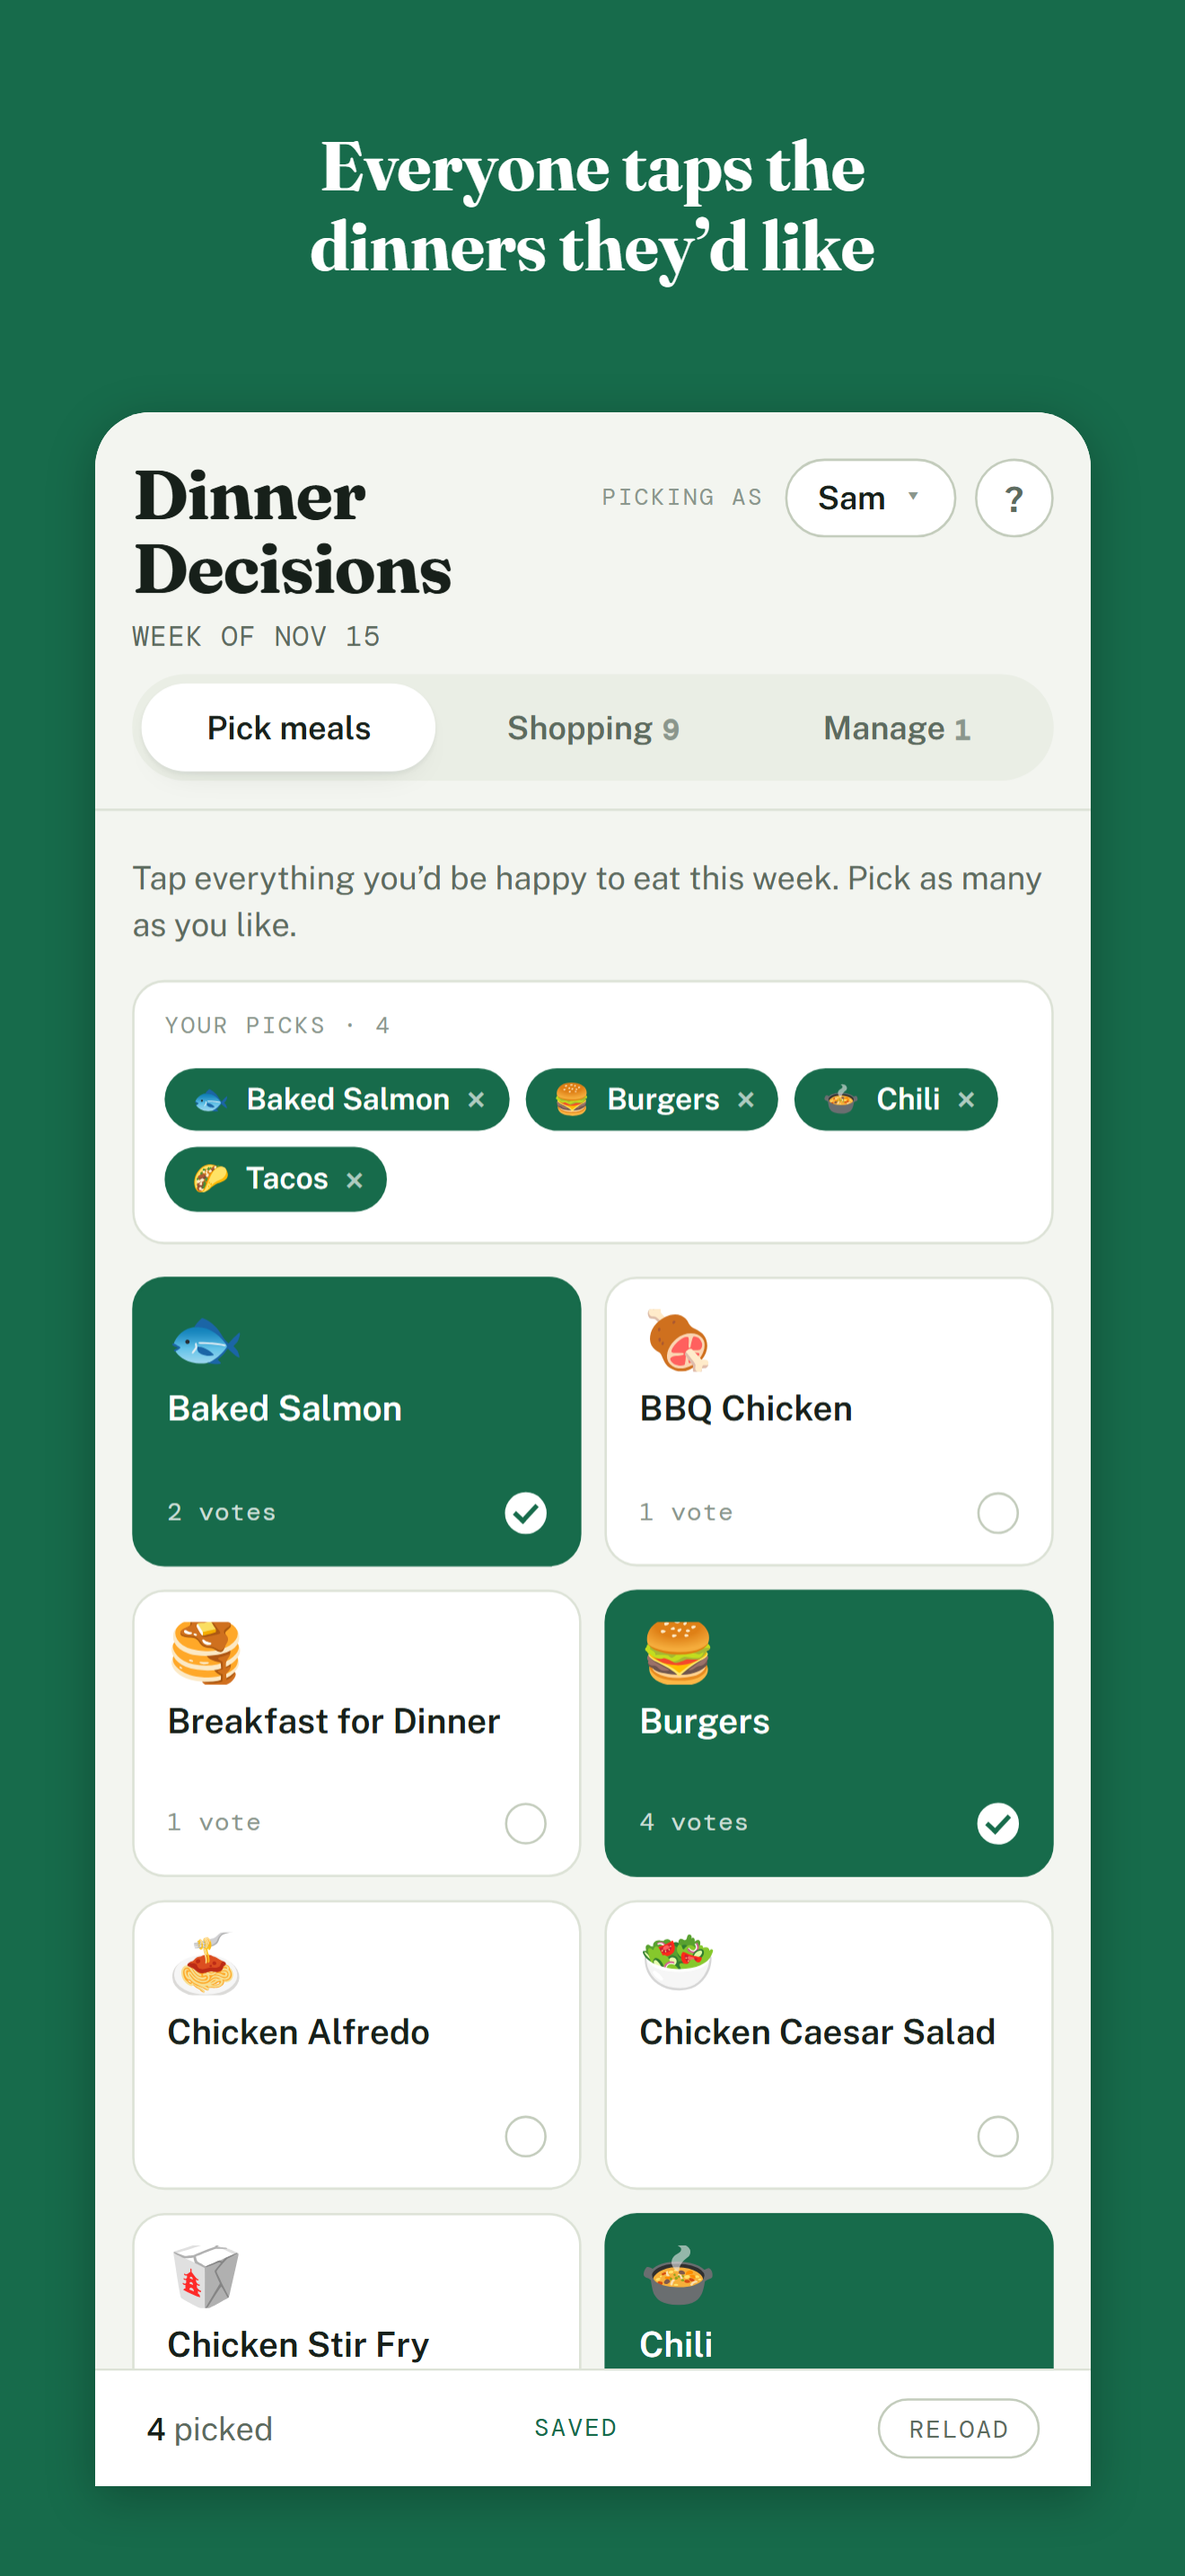
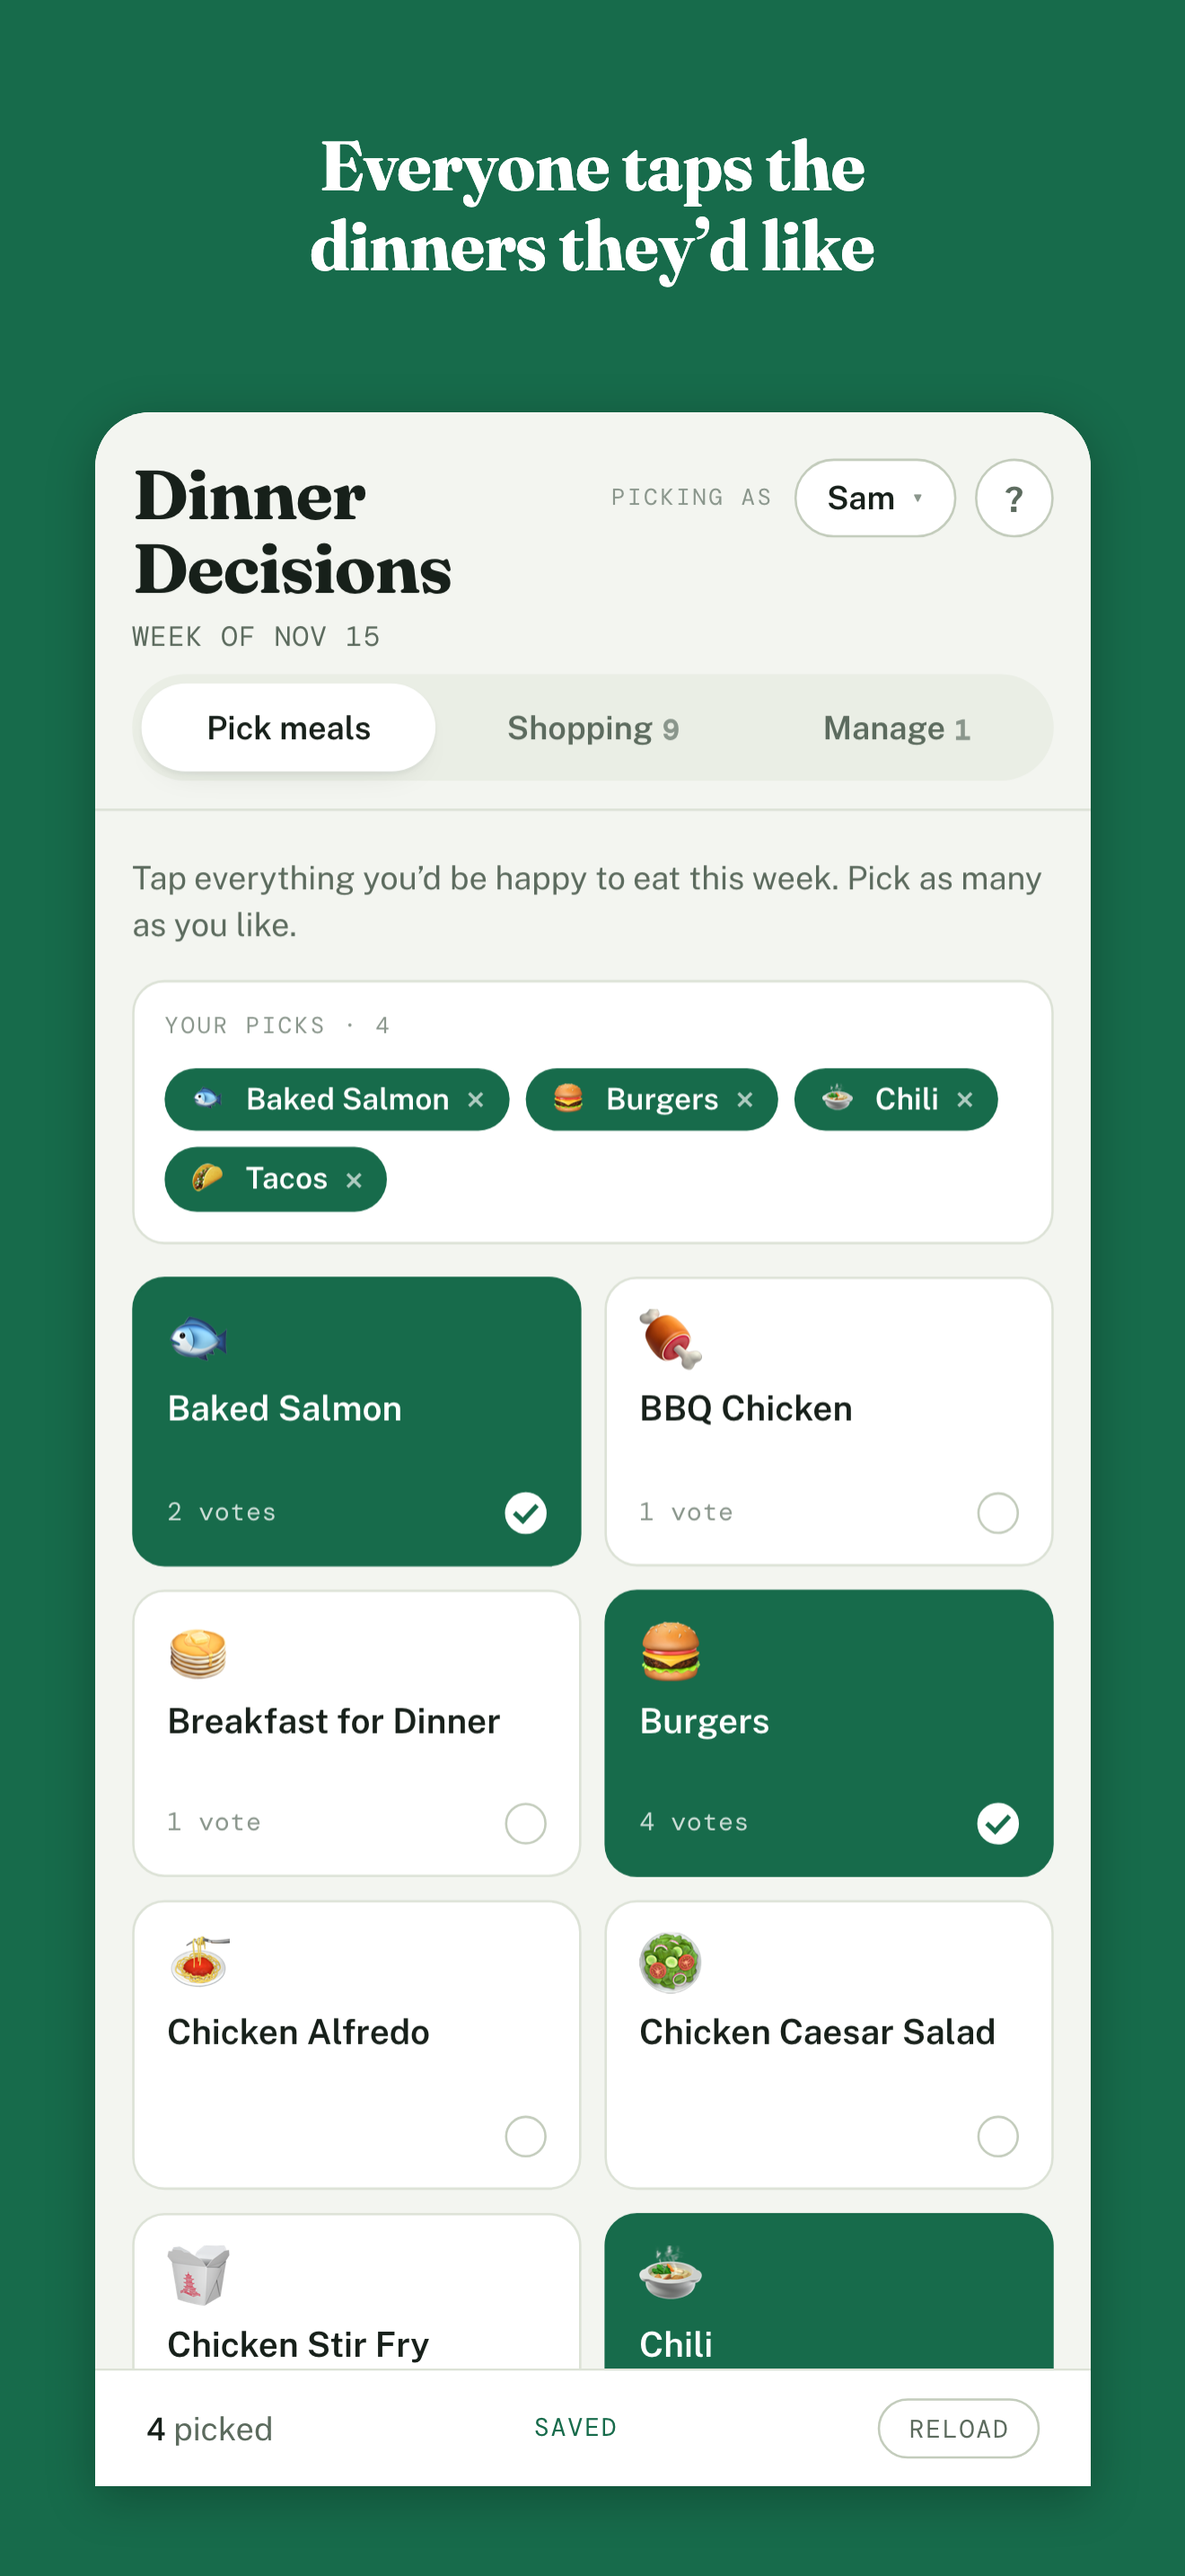
iPhone app: first build on a Mac, simulator checks, and the fixes they turned up
Built with Xcode 27.2 and run in the iOS 27.2 simulator for the first time; the project had only ever been generated on Windows.
Everything in the brief works in the simulator: sign-in, starting a family, Share invite, Share plan, Share list, Print as a PDF with its Print action, Vote reminders on and off, Delete My Data, dark mode, the splash and the icon.

Fixes:
- index.html: on iPhone the page runs under the status bar, so the top padding and the stuck tab strip now respect the safe-area inset, and a cover in the ground color stops content scrolling through above the tabs.
- ios/App/App/ViewController.swift: the web view's own background follows the page's ground in light and dark, so iOS 26's status-bar fade is no longer light grey in dark mode.
- The iOS splash image set had three unassigned template PNGs; removed.

Added:
- scripts/ios-sim.sh and mise run ios-sim: build and run the app in the simulator, with --emulators for the Firebase emulators (Capacitor on iOS checks the start path as a file, so a tiny emu.html hops to index.html?emu=1).
- tests/ios/simulator.test.mjs and mise run ios-test: a fresh install starts and signs in within a few seconds.
- The App Store screenshot set redrawn on the Mac with Apple's emoji.
- Package.resolved for the Swift packages, so the build is pinned.

diff --git a/ios/App/App/ViewController.swift b/ios/App/App/ViewController.swift
@@ -1,0 +1,42 @@
+import UIKit
+import Capacitor
+
+// The web view's own background shows wherever the page is not: behind the
+// status bar's scroll-edge fade on iOS 26, and when the page is pulled past
+// its end. Capacitor paints it the one color from capacitor.config.json, the
+// website's light ground, so in dark mode a light haze sat under the status
+// bar. This repaints it with the page's --ground for the current appearance,
+// as a plain color (the edge fade resolves a dynamic one light), once the
+// view has its traits and again whenever the appearance changes.
+class ViewController: CAPBridgeViewController {
+    private static func ground(_ traits: UITraitCollection) -> UIColor {
+        traits.userInterfaceStyle == .dark
+            ? UIColor(red: 0x12 / 255.0, green: 0x16 / 255.0, blue: 0x0F / 255.0, alpha: 1)
+            : UIColor(red: 0xF3 / 255.0, green: 0xF5 / 255.0, blue: 0xF0 / 255.0, alpha: 1)
+    }
+
+    private func paintGround() {
+        let color = Self.ground(traitCollection)
+        webView?.backgroundColor = color
+        webView?.scrollView.backgroundColor = color
+    }
+
+    override func viewDidLoad() {
+        super.viewDidLoad()
+        if #available(iOS 17.0, *) {
+            registerForTraitChanges([UITraitUserInterfaceStyle.self]) { (vc: Self, _: UITraitCollection) in
+                vc.paintGround()
+            }
+        }
+    }
+
+    override func viewWillAppear(_ animated: Bool) {
+        super.viewWillAppear(animated)
+        paintGround()
+    }
+
+    override func traitCollectionDidChange(_ previous: UITraitCollection?) {
+        super.traitCollectionDidChange(previous)
+        if #unavailable(iOS 17.0) { paintGround() }
+    }
+}

diff --git a/index.html b/index.html
@@ -2,7 +2,7 @@
 <html lang="en">
 <head>
 <meta charset="utf-8">
-<meta name="viewport" content="width=device-width, initial-scale=1">
+<meta name="viewport" content="width=device-width, initial-scale=1, viewport-fit=cover">
 <meta name="description" content="Everyone in the house votes on this week's dinners from their own phone, and the shopping list builds itself. Free, with no accounts and no email.">
 <title>Dinner Decisions - Family dinner voting and shopping list</title>
 <link rel="canonical" href="https://dinnerdecisions.app/">
@@ -134,7 +134,7 @@
   .wrap {
     max-width: 680px;
     margin: 0 auto;
-    padding: 20px 16px 0;
+    padding: max(20px, calc(env(safe-area-inset-top, 0px) + 10px)) 16px 0;
   }
 
   /* ---------- masthead ---------- */
@@ -301,6 +301,18 @@
 
   /* ---------- tabs ---------- */
 
+  /* Inside the phone apps the page runs under the status bar. This paints the
+     ground color there, so nothing scrolls through above the stuck tab strip.
+     On the website the inset is 0 and it has no height. */
+  body::before {
+    content: "";
+    position: fixed;
+    top: 0; left: 0; right: 0;
+    height: env(safe-area-inset-top, 0px);
+    background: var(--ground);
+    z-index: 21;
+  }
+
   /* Sticks to the top so the tabs stay reachable from anywhere in a long
      list. It bleeds past the wrap's padding so the ground and the rule run
      the full width rather than leaving gutters for content to show through.
@@ -310,7 +322,7 @@
      stay for when the bar is stuck to the top of the screen. */
   .tabbar {
     position: sticky;
-    top: 0;
+    top: env(safe-area-inset-top, 0px);
     z-index: 20;
     margin: -3px -16px 18px;
     padding: 8px 16px 12px;

diff --git a/ios/App/App/SceneDelegate.swift b/ios/App/App/SceneDelegate.swift
@@ -8,7 +8,7 @@ class SceneDelegate: UIResponder, UIWindowSceneDelegate {
         guard let windowScene = scene as? UIWindowScene else { return }
 
         window = UIWindow(windowScene: windowScene)
-        window?.rootViewController = CAPBridgeViewController()
+        window?.rootViewController = ViewController()
         window?.makeKeyAndVisible()
 
         SceneDelegateProxy.shared.scene(scene, willConnectTo: session, options: connectionOptions)

diff --git a/store/README.md b/store/README.md
@@ -91,15 +91,16 @@ Firebase Authentication's own "Authorized domains" list (Authentication, Setting
 1. LLC approved, D-U-N-S number, then both developer accounts (above).
 2. Fill `store/app-links.json` (Apple Team ID, Play signing fingerprints) and publish the website, so invite links open the app. See `app-links.md`.
 3. Release signing: an upload key for Play (kept out of git, with a backup), and Apple certificates in GitHub Actions secrets.
-4. iPhone build and TestFlight from GitHub Actions; check sign-in works in the iPhone app (untested so far, see below).
-5. Screenshots and the feature graphic are made (`mise run store-screenshots`, see `listing.md`); redo the iPhone set on the Mac. Then Play internal testing and TestFlight, then review. Have a lawyer read the age-signal handling (`content-rating.md`).
+4. iPhone build and TestFlight from GitHub Actions; sign-in works in the iPhone app (checked in the simulator, see below).
+5. Screenshots and the feature graphic are made (`mise run store-screenshots`, see `listing.md`); the iPhone set was redone on the Mac on Nov 20, 2026. Then Play internal testing and TestFlight, then review. Have a lawyer read the age-signal handling (`content-rating.md`).
 6. Privacy policy: now covers the apps, reminders and age signals; publish it with the website before the apps go live, and update its effective date then.
 7. Icon artwork: done. The pot is now `icons/pot.svg`, Microsoft's Fluent Emoji "Pot of food" under the MIT License, the same drawing the Windows emoji font showed, so the icon looks the same. The licence's copyright notice is kept in `icons/pot-LICENSE.txt` and on the Terms page.
 
 ## Known gaps
 
-- **iPhone is untested.** The iOS project is generated on Windows and has not been built; the first build is on Mike's MacBook (started Nov 20, 2026, steps on his "iPhone Build Handoff" page).
+- **iPhone: built and tried in the simulator on Nov 20, 2026** (Xcode 27.2, iOS 27.2, `mise run ios-sim`), not yet on a real iPhone.
+  Sign-in, starting a family, Share invite, Share plan, Print (a PDF to the share sheet, and its Print action), Vote reminders (the permission prompt and Turn On), Delete My Data, dark mode and the icon all work.
   The known iPhone sign-in problem is dealt with: Firebase Auth's compat SDK loads Google's popup sign-in helper (an iframe from `apis.google.com`) on phones, which is the known cause of slow or stuck sign-in inside iPhone apps.
-  `scripts/build-app.mjs` removes that helper from the app's copy only (the change Firebase recommends for Capacitor), and the Android device test checks no outside script or iframe loads and sign-in works.
-  The first iPhone build should still confirm a new phone reaches "Not joined" quickly, and that Share, Print, invite links and reminders work.
+  `scripts/build-app.mjs` removes that helper from the app's copy only (the change Firebase recommends for Capacitor); the Android device test and `mise run ios-test` check a fresh install signs in within seconds.
+  Still to try on a real iPhone: the haptic tap, and invite links once `store/app-links.json` has the Team ID.
 - Google Play now lists Android 17 (API 37). Capacitor 8 targets API 36, which Play accepts for new apps until its next yearly deadline (normally August).

diff --git a/README.md b/README.md
@@ -116,10 +116,13 @@ mise run app-sync        # rebuild www/ and copy it into android/ and ios/
 mise run app-test        # check www/ is the website plus only the intended changes
 mise run android-debug   # debug APK at build/DinnerDecisions-debug.apk (needs the Android SDK)
 mise run android-test    # the app on a running Android emulator, against the Firebase emulators
+mise run ios-sim         # the iPhone app in the iOS Simulator (Mac only; --emulators for the Firebase emulators)
+mise run ios-test        # the iPhone app installed fresh in the simulator: starts and signs in, against the emulators
 ```
 
 The Android SDK is the command-line tools in `%LOCALAPPDATA%\Android\Sdk` (platform 36, build-tools 36, platform-tools; the emulator and an Android 16 image for `android-test`), with Java 21 from mise.
-iPhone builds need a Mac, so they are planned for GitHub Actions' macOS runners.
+iPhone builds need a Mac with Xcode 26 or later and its iOS platform; `scripts/ios-sim.sh` builds and runs the app in the simulator, and App Store builds are planned for GitHub Actions' macOS runners.
+On iPhone the page runs under the status bar, so `index.html` pads the top by the safe-area inset and `ios/App/App/ViewController.swift` paints the web view's own background in the page's ground color for light and dark, which iOS 26 fades in under the status bar.
 
 ## How a meal gets its icon
 

diff --git a/store/listing.md b/store/listing.md
@@ -130,7 +130,7 @@ Re-run it after any change to how the app looks.
 
 Meal icons are emoji, which each phone draws with its own font.
 The Play sets use Google's Noto Color Emoji, as Android does.
-The iPhone set made on Windows uses Noto too; run `mise run store-screenshots` once on the Mac so it shows Apple's emoji, as an iPhone does.
+The iPhone set is made on the Mac (last on Nov 20, 2026), so it shows Apple's emoji, as an iPhone does; made on Windows it would fall back to Noto.
 
 Screenshot captions, one per screen, set above each screen on the app's green:
 
